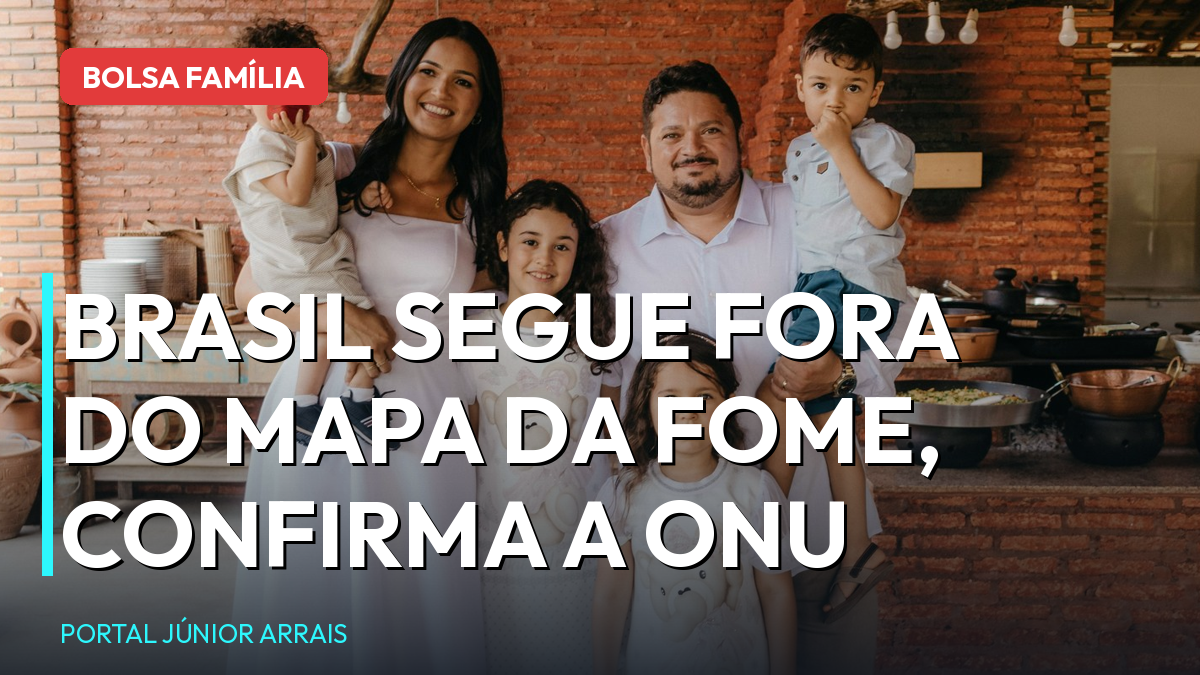
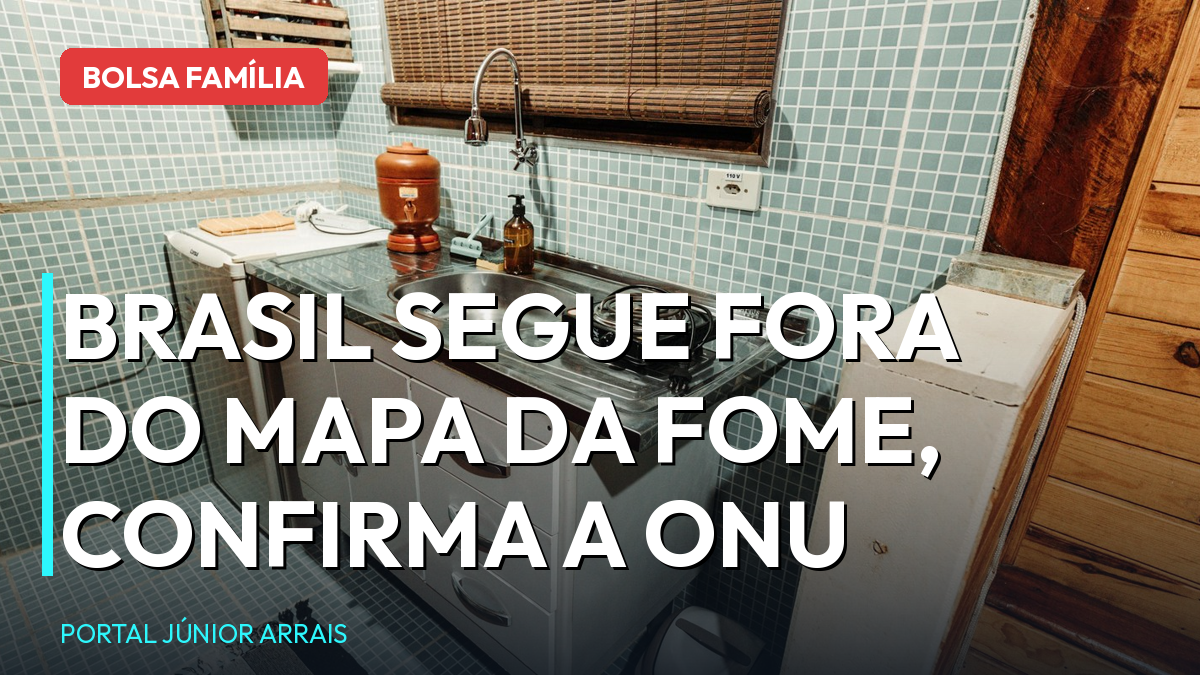
Banco de imagens: incorpora 10 fotos do acervo do Drive e refaz capas repetidas

diff --git a/noticias/bandeira-amarela-conta-de-luz-agosto.html b/noticias/bandeira-amarela-conta-de-luz-agosto.html
@@ -89,7 +89,7 @@
       <div><span class="chip">Economia</span></div>
       <h1>Conta de luz em agosto: bandeira amarela mantém taxa extra de R$ 1,885 a cada 100 kWh</h1>
       <div class="meta"><img src="../img/junior-avatar.png" alt="Júnior Arrais" class="autor-foto"> Por Júnior Arrais &middot; 2 de ago. de 2026</div>
-      <div class="artigo-capa"><img src="../img/bandeira-amarela-conta-de-luz-agosto.png" alt="Conta de luz em agosto: bandeira amarela mantém taxa extra de R$ 1,885 a cada 100 kWh"><span class="credito-foto">Foto: Fernando Frazão/Agência Brasil</span></div>
+      <div class="artigo-capa"><img src="../img/bandeira-amarela-conta-de-luz-agosto.png" alt="Conta de luz em agosto: bandeira amarela mantém taxa extra de R$ 1,885 a cada 100 kWh"></div>
 
       <div class="artigo-conteudo">
 

diff --git a/img/banco/CREDITOS.md b/img/banco/CREDITOS.md
@@ -198,3 +198,27 @@ python3 scripts/gerar_capa.py \
 | Arquivo | O que mostra | Crédito |
 |---|---|---|
 | `gestante-barriga-alerta.jpg` | Barriga de gestante com sinal de alerta (triângulo vermelho e exclamação) desenhado | Imagem enviada pelo Júnior — conferir a origem antes de reutilizar |
+
+
+---
+
+# Parte 3 — Acervo próprio do Júnior (Google Drive)
+
+Fotos vindas da pasta `Imagens - Portal Junior Arrais` do Drive, triadas por
+resolução (mínimo 1200 px de largura) e por não terem texto sobreposto.
+**Origem não documentada** — foram reunidas a partir de busca na web. Antes de
+reutilizar, considerar o risco: se aparecer marca d'água ou for identificada
+como de agência comercial, substituir.
+
+| Arquivo | O que mostra |
+|---|---|
+| `idoso-sentado-cama-quarto.jpg` | Homem idoso negro sentado na beira da cama, de pijama, em quarto simples |
+| `fila-agencia-caixa-rua.jpg` | Fila de pessoas na calçada em frente a uma agência da Caixa |
+| `carteira-trabalho-digital-celular.jpg` | Celulares mostrando o aplicativo da Carteira de Trabalho Digital |
+| `inss-celular-dinheiro-cofrinho.jpg` | Celular com a marca do INSS ao lado de notas de real e cofrinho |
+| `inss-cartao-e-notas-maos.jpg` | Mãos segurando notas de real e um cartão com a marca do INSS |
+| `bpc-cartao-mulher-segurando.jpg` | Mulher segurando o cartão do BPC, fundo claro desfocado |
+| `bpc-cartao-mulher-sorrindo.jpg` | Mulher sorridente segurando o cartão do BPC |
+| `bolsa-familia-cartao-e-dinheiro-agencia.jpg` | Mão segurando cartão do Bolsa Família e notas dentro de agência bancária |
+| `bolsa-familia-cartao-na-mao.jpg` | Mão segurando o cartão do Bolsa Família |
+| `bolsa-familia-cartao-fundo-azul.jpg` | Mão segurando o cartão do Bolsa Família sobre fundo azul |
